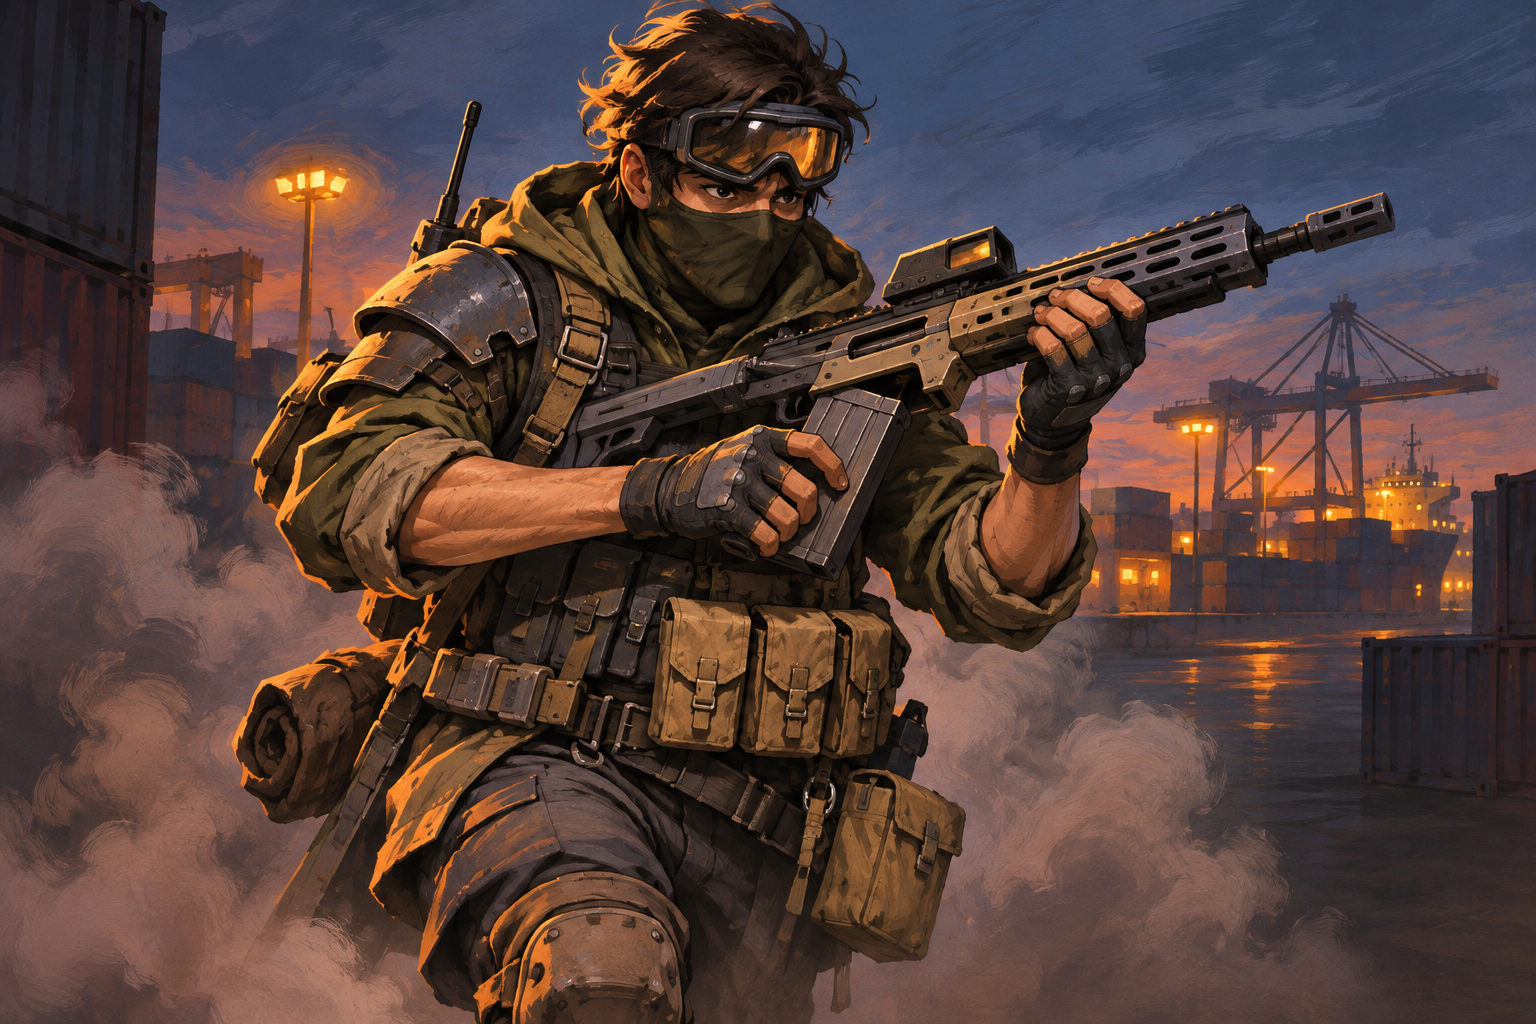
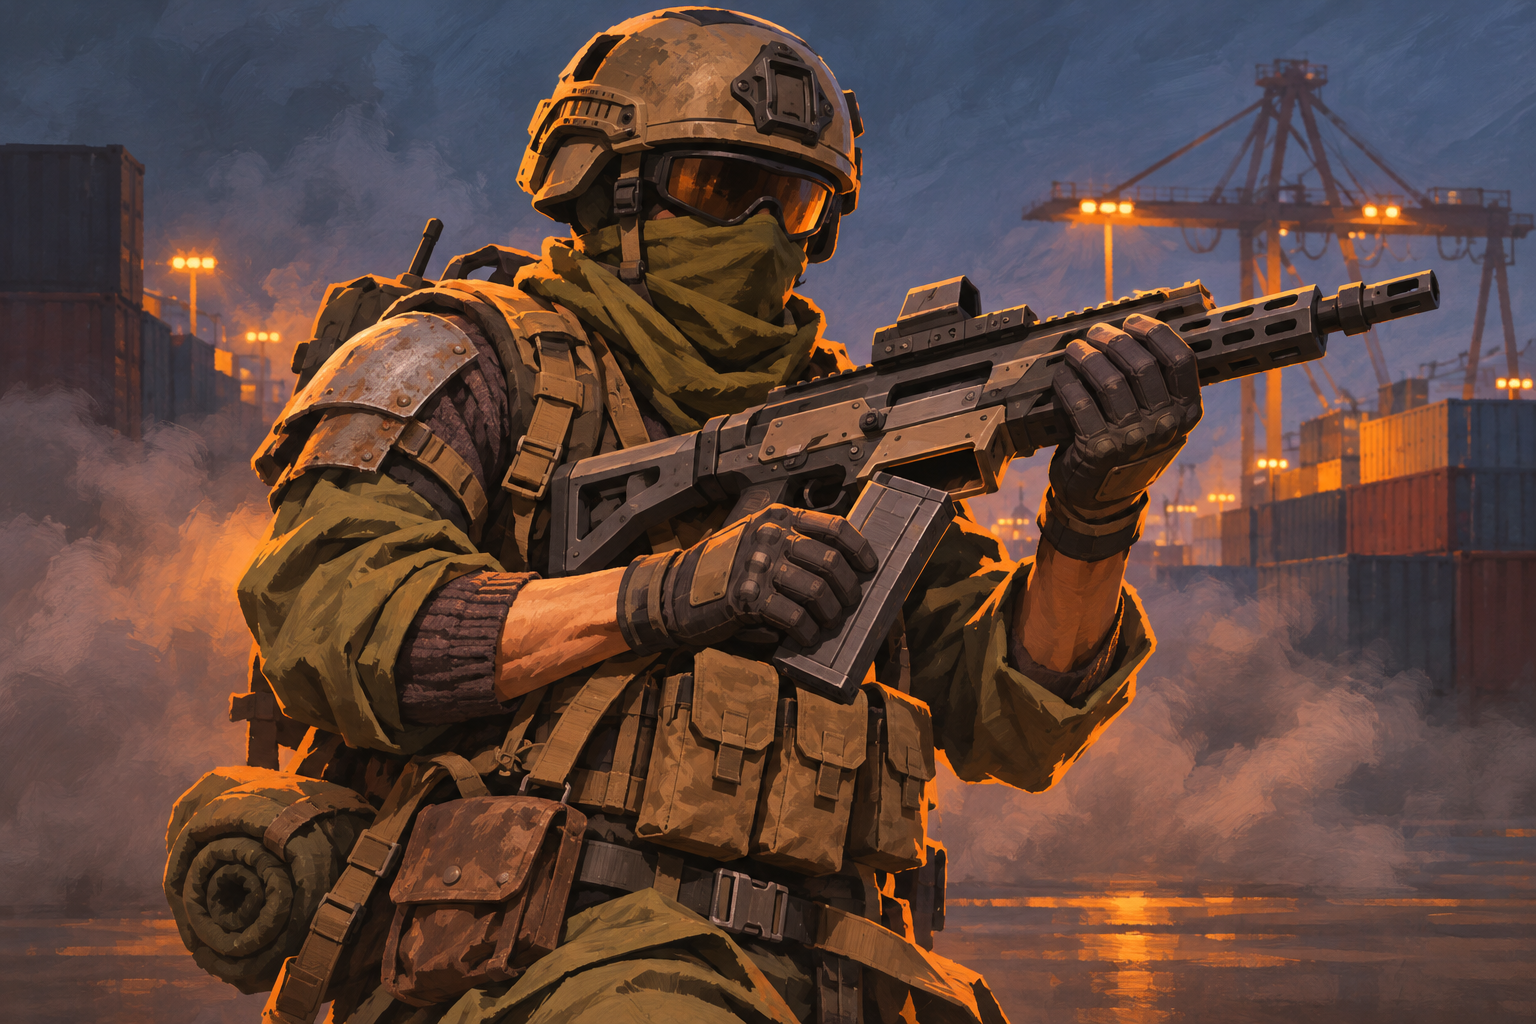
art(killingcard): regenerate four pack 1 retry illustrations

diff --git a/projects/killingcard/documentation/art/chatgpt/images/art-pack-1/README.md b/projects/killingcard/documentation/art/chatgpt/images/art-pack-1/README.md
@@ -2,11 +2,6 @@
 
 Full-size, uncropped PNG illustrations generated from [art-pack-1-prompts.md](../../art-pack-1-prompts.md), in batch order. Preserve the specified filenames. These originals are staged for art review; game imports and crops are handled separately.
 
-See [manifest.json](manifest.json) for all 48 requested images and their batch numbers. A file is available when its PNG is present in this folder.
+All **48 images** are present and passed PNG integrity and 1536×1024 dimension checks. See [manifest.json](manifest.json) for filenames, batches, prompt sources and SHA-256 hashes.
 
-Generation completed: **46 of 48 images**. Every saved PNG passed integrity and 1536×1024 dimension checks.
-
-The image service blocked these original prompts with `moderation_blocked` (violence); no replacement image was substituted:
-
-- Image 23: `kc_b_tripwire_charge.png` (input stage).
-- Image 42: `kc_b_demolitions_expert_nightcity.png` (output stage).
+Four images were regenerated using [art-pack-1-retry-prompts.md](../../art-pack-1-retry-prompts.md): Fast Learner, Recon Specialist (Night city), Tripwire Charge, and Demolitions Expert (Night city). These retries replace the two rejected originals and fill the two previously blocked slots. The engineer retry was additionally cleaned to remove markings from the measuring tape and tools.
